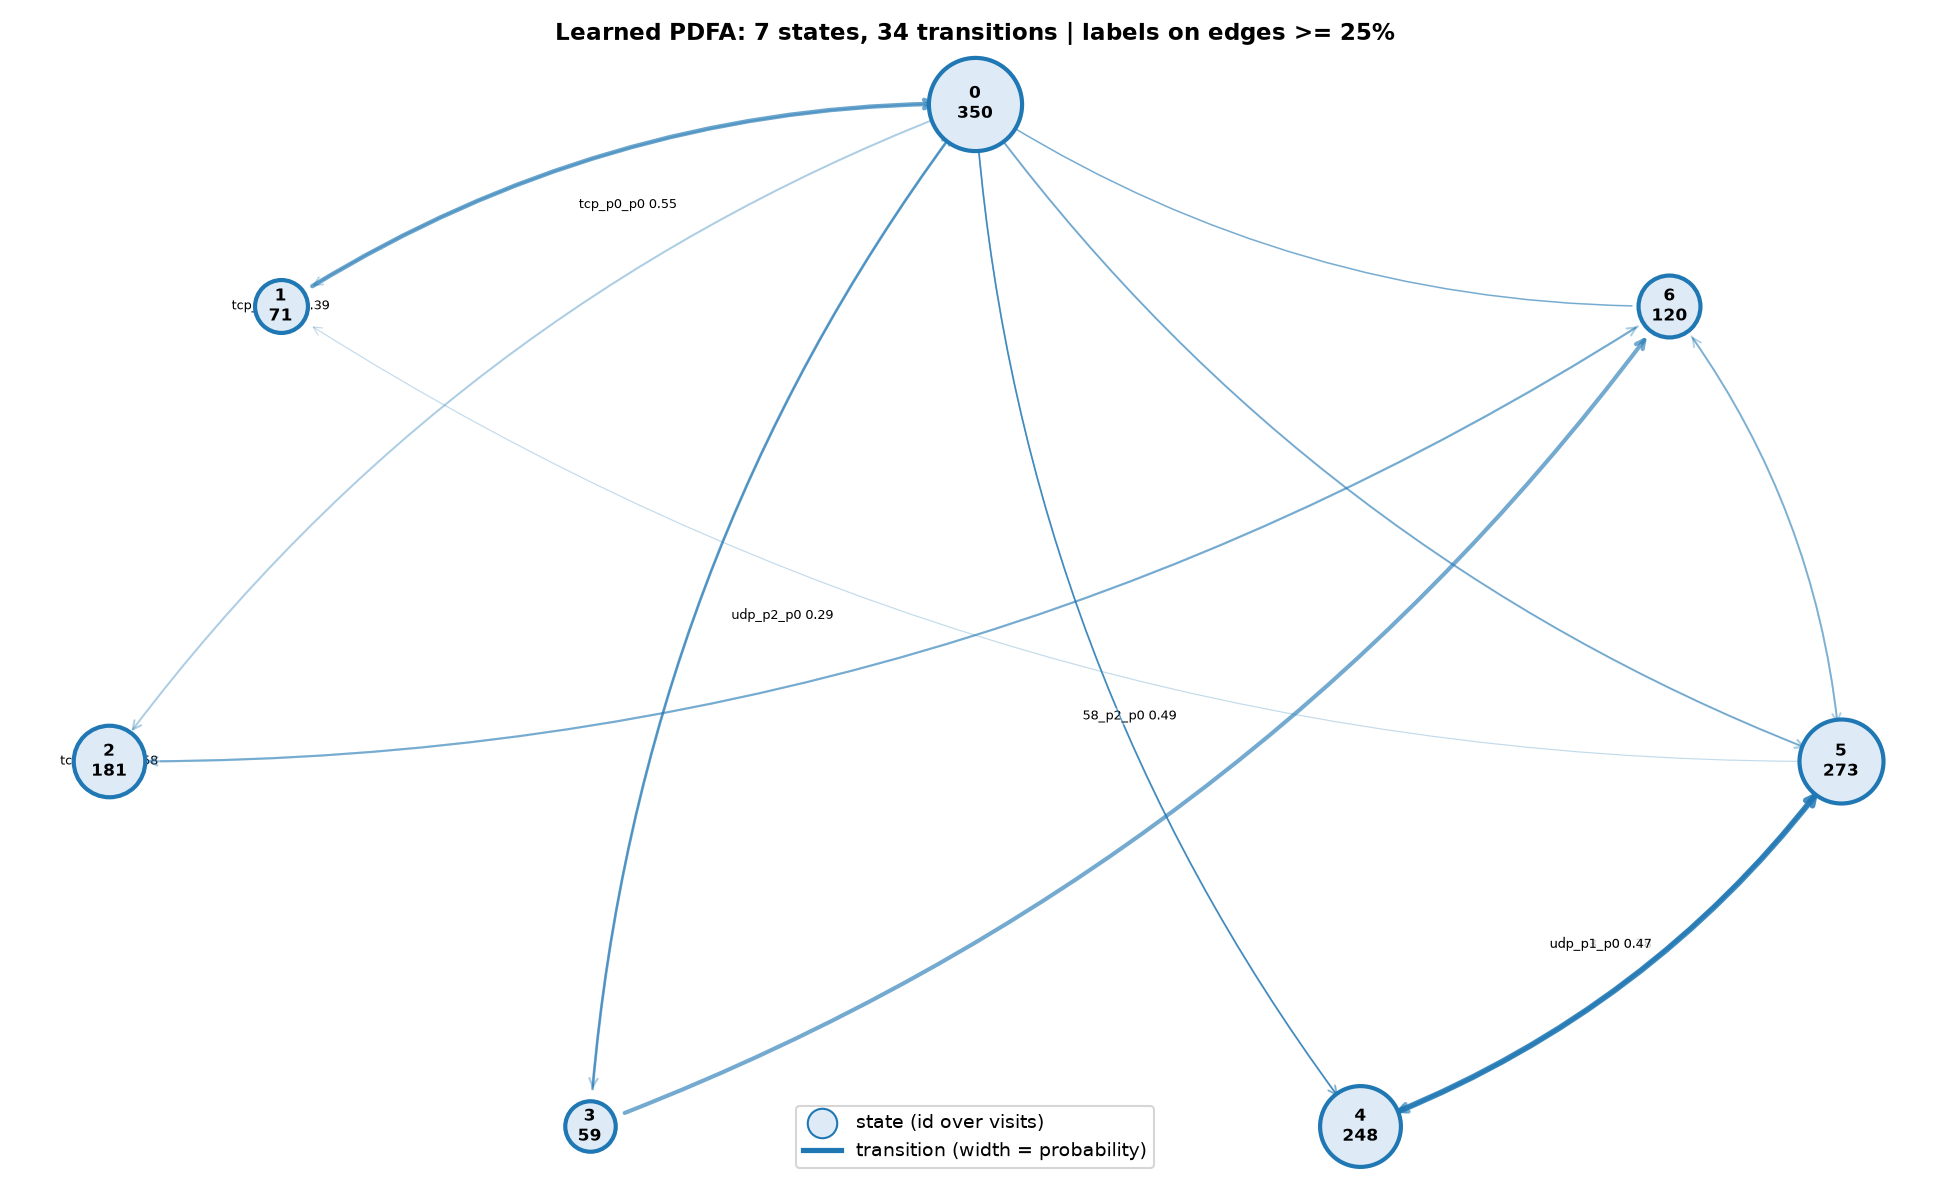
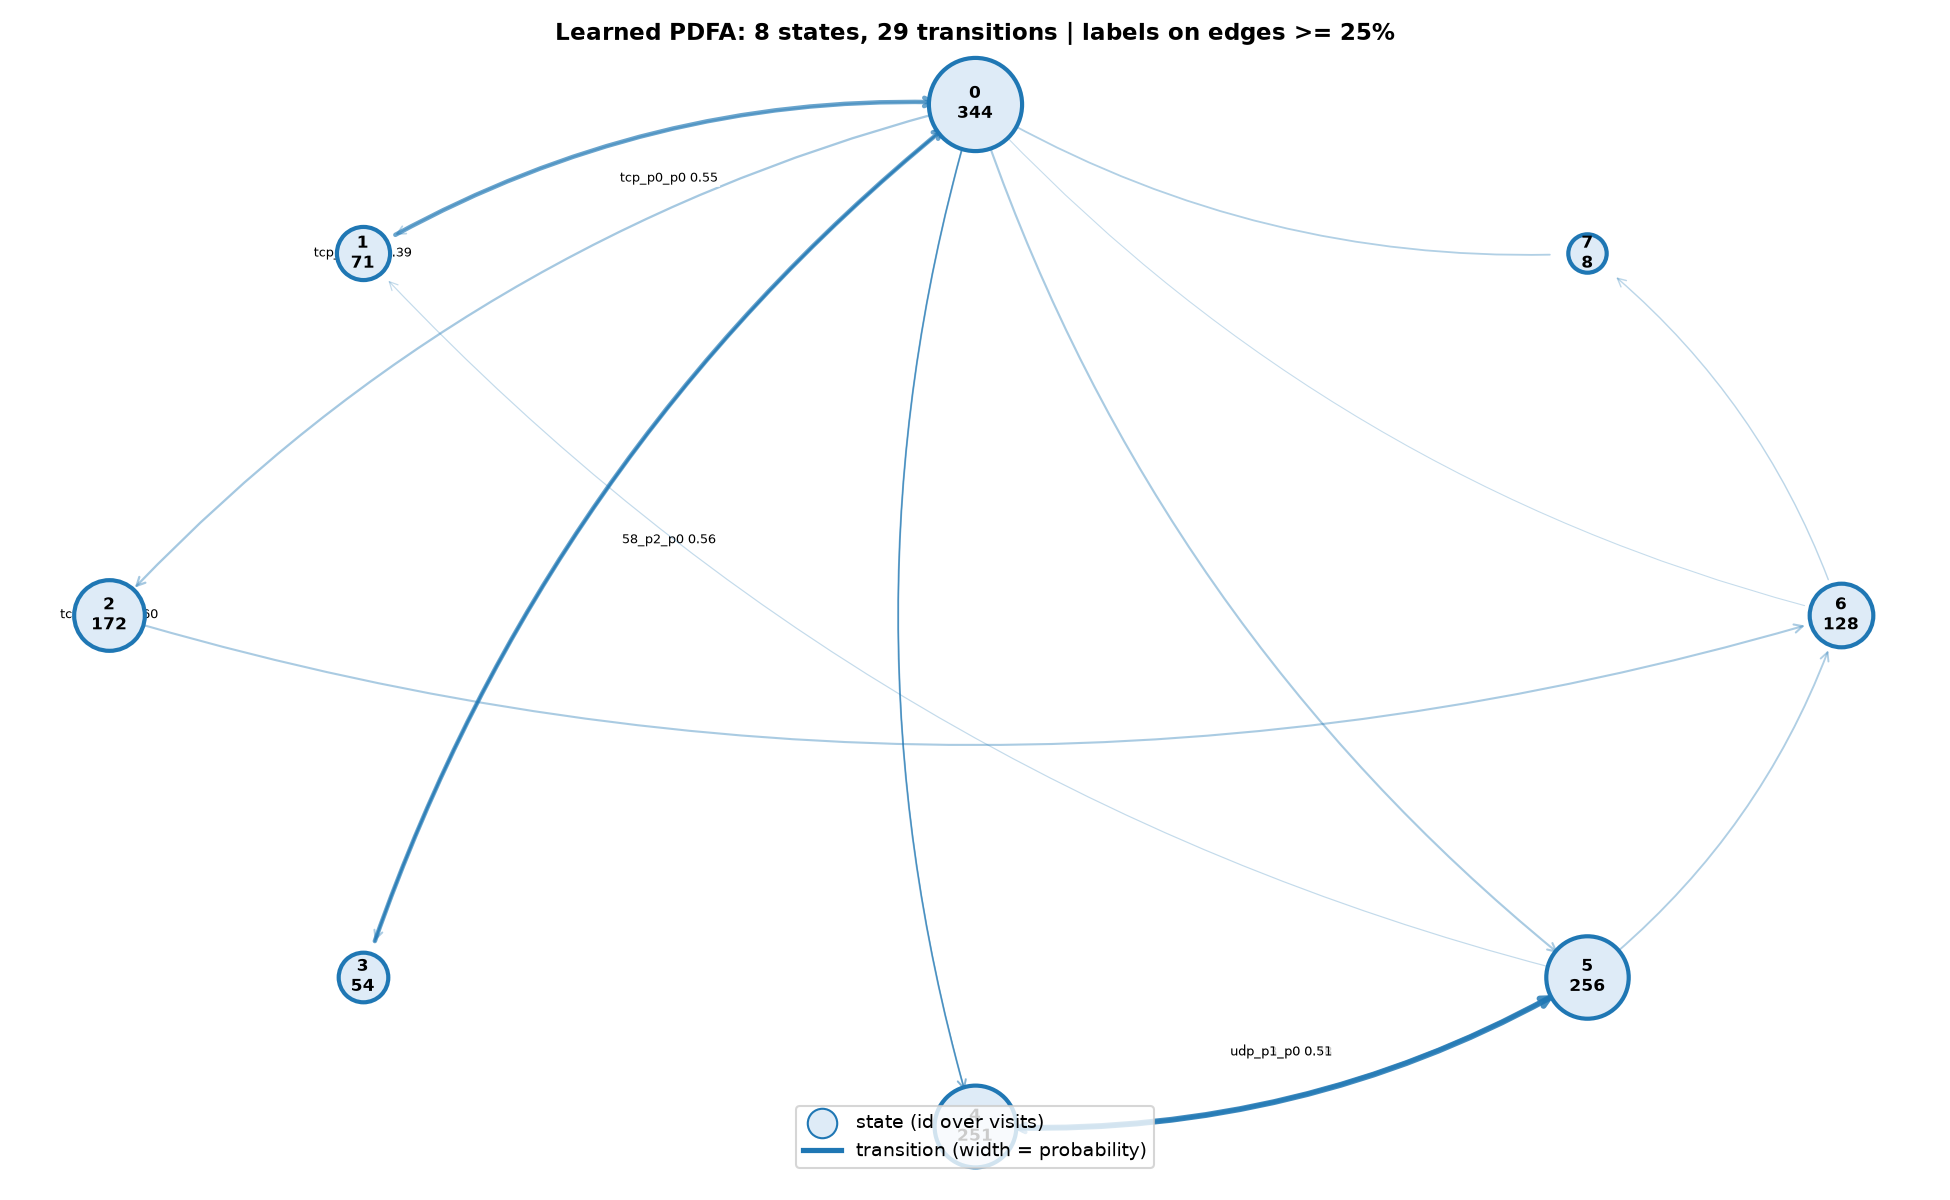
drop window-boundary-crossing flows before pdfa fitting
Flows that span a capture-window boundary no longer leak packets across
windows; segment_flows splits them and reports the dropped count. The sweep
gains a dropped_segments column, the router-flannel injection stratum falls
below the window minimum and is excluded (43 -> 42 rows), and README/decision
log numbers are refreshed.

diff --git a/Threat_Detection/statemachine.py b/Threat_Detection/statemachine.py
@@ -55,6 +55,20 @@ def make_flows(packets):
     return flows.sort_values("start_ts").reset_index(drop=True)
 
 
+def segment_flows(flows, t0, window_size=WINDOW_SIZE):
+    """Flows lying inside a single window, plus the number dropped.
+
+    A flow cut by a window boundary would carry a partial byte count and a partial
+    duration, which is an artifact of where the slice fell rather than of behaviour, so it
+    is dropped instead of symbolized. The count comes back with the kept flows so a caller
+    can report it rather than lose it.
+    """
+    start = np.floor((flows["start_ts"] - t0) / window_size)
+    end = np.floor((flows["start_ts"] + flows["duration"] - 1e-9 - t0) / window_size)
+    crossing = start != end
+    return flows[~crossing].reset_index(drop=True), int(crossing.sum())
+
+
 def fit_percentile(flows, nbins=NBINS):
     """Quantile bin edges for bytes and duration, fitted on benign flows."""
     enc = {"kind": "percentile"}
@@ -348,30 +362,25 @@ def n_windows_for(packets, window_size=WINDOW_SIZE):
     return int(packets["ts"].max() - packets["ts"].min()) // int(window_size) + 1
 
 
-def score_capture(model, packets, cutoff):
-    """Per-window flags for one capture under a fitted model and cutoff."""
-    flows = make_flows(packets)
-    if len(flows) < model["trace_len"]:
-        return None  # too few flows to form a trace; caller records the note
-    scored = score_flows(model, flows)
-    return flags_for_windows(scored, packets["ts"].min(),
-                             n_windows_for(packets), cutoff)
-
-
 def score_pair(benign_path, attack_path, encoding="percentile"):
-    """Fit on the first 70% of benign flows; flag held-out benign and attack."""
+    """Fit on the first 70% of benign flows; flag held-out benign and attack.
+
+    Flows crossing a window boundary are dropped before symbolization, so a partial
+    segment never becomes a symbol and never reaches a trace.
+    """
     benign = load_flow_packets(benign_path)
-    benign_flows = make_flows(benign)
+    benign_t0 = benign["ts"].min()
+    benign_flows, _ = segment_flows(make_flows(benign), benign_t0)
     train, holdout = split_flows(benign_flows)
     model = fit_model(train, encoding=encoding)
     cutoff = score_cutoff(score_flows(model, holdout))
-    benign_flags = flags_for_windows(score_flows(model, holdout), benign["ts"].min(),
+    benign_flags = flags_for_windows(score_flows(model, holdout), benign_t0,
                                      n_windows_for(benign), cutoff)
     attack = load_flow_packets(attack_path)
-    attack_flags = score_capture(model, attack, cutoff)
-    if attack_flags is None:
-        attack_flags = pd.Series(False, index=range(n_windows_for(attack)))
-    return benign_flags, attack_flags
+    attack_t0 = attack["ts"].min()
+    attack_flows, _ = segment_flows(make_flows(attack), attack_t0)
+    return benign_flags, flags_for_windows(score_flows(model, attack_flows), attack_t0,
+                                           n_windows_for(attack), cutoff)
 
 
 def statemachine_rows(described, method="tcp", encoding="percentile"):
@@ -397,30 +406,35 @@ def statemachine_rows(described, method="tcp", encoding="percentile"):
             excluded.append(label)
             continue
         try:
-            train, holdout = split_flows(make_flows(reference))
+            reference_t0 = reference["ts"].min()
+            reference_flows, reference_dropped = segment_flows(make_flows(reference),
+                                                               reference_t0)
+            train, holdout = split_flows(reference_flows)
             model = fit_model(train, encoding=encoding)
             cutoff = score_cutoff(score_flows(model, holdout))
         except ValueError as error:
             excluded.append(f"{label} ({error})")
             continue
-        targets = [("benign", holdout, reference)] + [
-            (s, None, packets.get((s, label, method))) for s in attacks]
-        for scenario, holdout_flows, target in targets:
+        targets = [("benign", holdout, reference, reference_dropped)] + [
+            (s, None, packets.get((s, label, method)), None) for s in attacks]
+        for scenario, holdout_flows, target, dropped in targets:
             if target is None:
                 excluded.append(f"{scenario}/{label} (no capture)")
                 continue
+            target_t0 = target["ts"].min()
             if scenario == "benign":
                 scored = score_flows(model, holdout_flows)
-                flags = flags_for_windows(scored, target["ts"].min(),
-                                          n_windows_for(target), cutoff)
             else:
-                flags = score_capture(model, target, cutoff)
-                if flags is None:
+                target_flows, dropped = segment_flows(make_flows(target), target_t0)
+                scored = score_flows(model, target_flows)
+                if not scored:
                     excluded.append(f"{scenario}/{label} (too few flows)")
                     continue
+            flags = flags_for_windows(scored, target_t0, n_windows_for(target), cutoff)
             rows.append({"detector": "state_machine", "scenario": scenario,
-                         "label": label, "method": method, "states": model["pdfa"].n_states,
-                         **flag_stats(flags)})
+                         "label": label, "method": method,
+                         "states": model["pdfa"].n_states,
+                         "dropped_segments": dropped, **flag_stats(flags)})
     if excluded:
         print(f"excluded captures: {len(excluded)} ({', '.join(sorted(set(excluded)))})")
     return (pd.DataFrame(rows)

diff --git a/Threat_Detection/tests.py b/Threat_Detection/tests.py
@@ -732,6 +732,31 @@ class StateMachineChecks(unittest.TestCase):
         self.assertAlmostEqual(flows.iloc[0]["duration"], 0.5)
         self.assertTrue((flows["start_ts"].diff().dropna() >= 0).all())
 
+    def test_segment_flows_drops_flows_crossing_a_window_boundary(self):
+        flows = pd.DataFrame({
+            "start_ts": [10.0, 10.1, 10.9, 10.0],
+            "bytes": [100, 100, 100, 100],
+            "duration": [1.0, 0.5, 0.3, 2.0],
+            "proto": ["tcp"] * 4,
+        })
+        kept, dropped = statemachine.segment_flows(flows, t0=10.0)
+        # Ending exactly on a boundary stays; anything reaching past it does not.
+        self.assertEqual(list(kept["duration"]), [1.0, 0.5])
+        self.assertEqual(dropped, 2)
+
+    def test_score_pair_drops_crossing_flows_before_symbolizing(self):
+        import tempfile
+        root = Path(tempfile.mkdtemp())
+        header = "ts,frame_len,src_ip,dst_ip,src_port,dst_port,proto\n"
+        # One long flow spans the whole capture; the rest fit inside their seconds.
+        lines = [header, "10.0,100,::1,::2,9999,8080,tcp\n", "70.0,100,::1,::2,9999,8080,tcp\n"]
+        lines += [f"{10.0 + w + i / 5:.4f},100,::1,::2,{1000 + w},8080,tcp\n"
+                  for w in range(30) for i in range(5)]
+        benign = root / "benign.csv"
+        benign.write_text("".join(lines))
+        benign_flags, _ = statemachine.score_pair(str(benign), str(benign))
+        self.assertEqual(len(benign_flags), 61)
+
     def test_percentile_encoding_separates_small_from_large(self):
         train = pd.DataFrame({"proto": ["tcp"] * 4, "bytes": [10, 20, 30, 40],
                               "duration": [0.1] * 4})

diff --git a/Threat_Detection/demo.py b/Threat_Detection/demo.py
@@ -27,7 +27,7 @@ from detectors import PERSISTENCE_WINDOW, THRESHOLD, build
 from features import FEATURE_LABELS, WINDOW_SIZE, make_windows, split_reference
 from statemachine import (encode, fit_model, flags_for_windows, load_flow_packets,
                           make_flows, n_windows_for, plot_pdfa, score_cutoff,
-                          score_flows, split_flows, write_pair)
+                          score_flows, segment_flows, split_flows, write_pair)
 
 HERE = Path(__file__).resolve().parent
 DETECTOR = "z_score"
@@ -245,9 +245,12 @@ def state_machine():
     heading("STEP 1  Read the two recordings")
     benign = load_flow_packets(local_paths.BENIGN_CSV)
     attack = load_flow_packets(local_paths.ATTACK_CSV)
-    benign_flows, attack_flows = make_flows(benign), make_flows(attack)
-    print(f"   normal traffic: {len(benign):,} packets in {len(benign_flows)} flows")
-    print(f"   attack traffic: {len(attack):,} packets in {len(attack_flows)} flows")
+    benign_flows, benign_dropped = segment_flows(make_flows(benign), benign["ts"].min())
+    attack_flows, attack_dropped = segment_flows(make_flows(attack), attack["ts"].min())
+    print(f"   normal traffic: {len(benign):,} packets in {len(benign_flows)} flows"
+          f" ({benign_dropped} crossing a window boundary, dropped)")
+    print(f"   attack traffic: {len(attack):,} packets in {len(attack_flows)} flows"
+          f" ({attack_dropped} crossing a window boundary, dropped)")
 
     heading("STEP 2  Learn the machine from normal flows")
     train, holdout = split_flows(benign_flows)

diff --git a/Threat_Detection/README.md b/Threat_Detection/README.md
@@ -86,15 +86,16 @@ Underneath the menu, the same commands run directly:
 .venv/bin/python sweep.py --groups volume,size_timing,diversity,flags,protocol --out ablation_results.csv
 .venv/bin/python compare.py
 .venv/bin/python feature_value.py
-.venv/bin/python statemachine.py                      # PDFA sweep, 43 rows, about 13 seconds
+.venv/bin/python statemachine.py                      # PDFA sweep, 42 rows, about 13 seconds
 .venv/bin/python statemachine.py --method ptcp --out statemachine_sweep_ptcp.csv
 ```
 
-The two sweeps do not have the same row count, and the gap is not a missing capture.
+The two sweeps do not have the same row count, and the gap is not missing captures.
 `sweep_results.csv` covers both capture methods and holds 88 rows. `statemachine_sweep.csv`
-runs one method per invocation, so 44 strata, and drops the quarantined zero-timestamp capture
-(`nginx attack / pod-robot-controller`), leaving 43. Run it twice, once per method, to compare
-against the 88-row file.
+runs one method per invocation, so 44 strata, and excludes two: the quarantined zero-timestamp
+capture (`nginx attack / pod-robot-controller`) and `injection attack / router-flannel`, which
+has too few flows left after boundary-crossing segments are dropped. That leaves 42. Run it
+twice, once per method, to compare against the 88-row file.
 
 Generated files always land in `Threat_Detection/outputs/`, whichever directory you run
 from. Delete `outputs/capture_manifest.csv` after any dataset change, or the sweep scores

diff --git a/Threat_Detection/PROGRESS.md b/Threat_Detection/PROGRESS.md
@@ -153,8 +153,8 @@ test of whether detection survives without the length features is
 ## Outstanding problems
 
 - **The flagged fractions have uneven denominators.** The state-machine sweep prints a benign
-  mean of 0.057 over 11 strata, but the windows behind that mean are not comparable across
-  scenarios: 690 benign windows against 292 injection windows in the tcp sweep, because 18 of
+  mean of 0.033 over 11 strata, but the windows behind that mean are not comparable across
+  scenarios: 690 benign windows against 240 injection windows in the tcp sweep, because 18 of
   the 22 injection strata are under 32 s and one holds 3 windows. A mean over strata weights a
   3-window capture the same as an 80-window one. Per-scenario window counts belong beside every
   such number, and the injection column is not comparable to the others.
